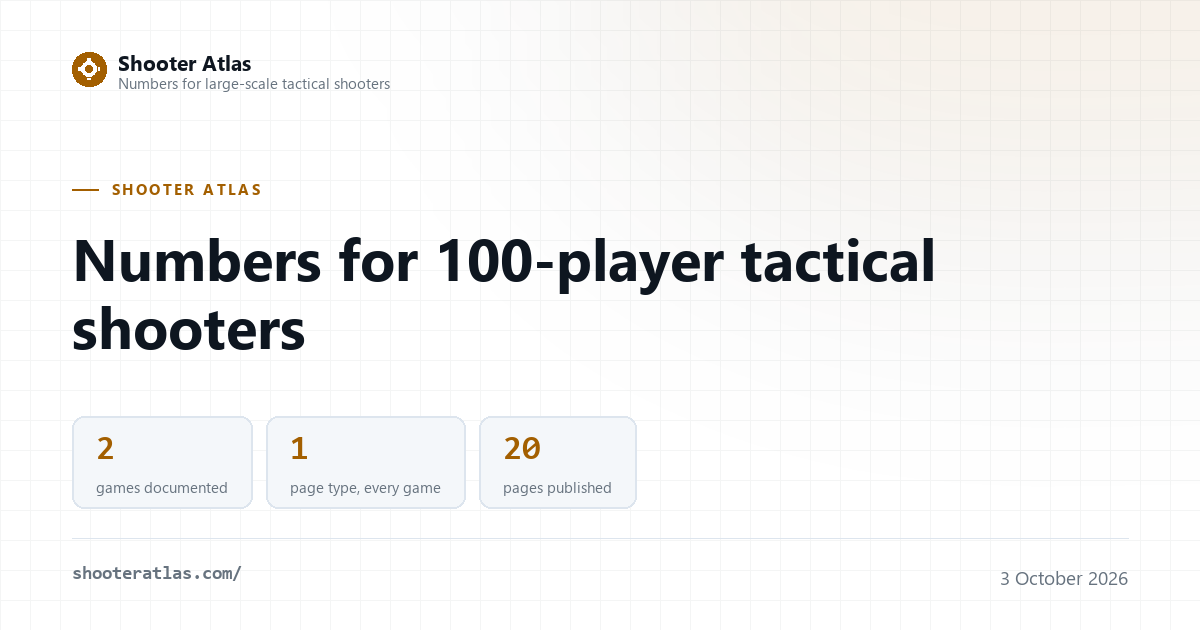
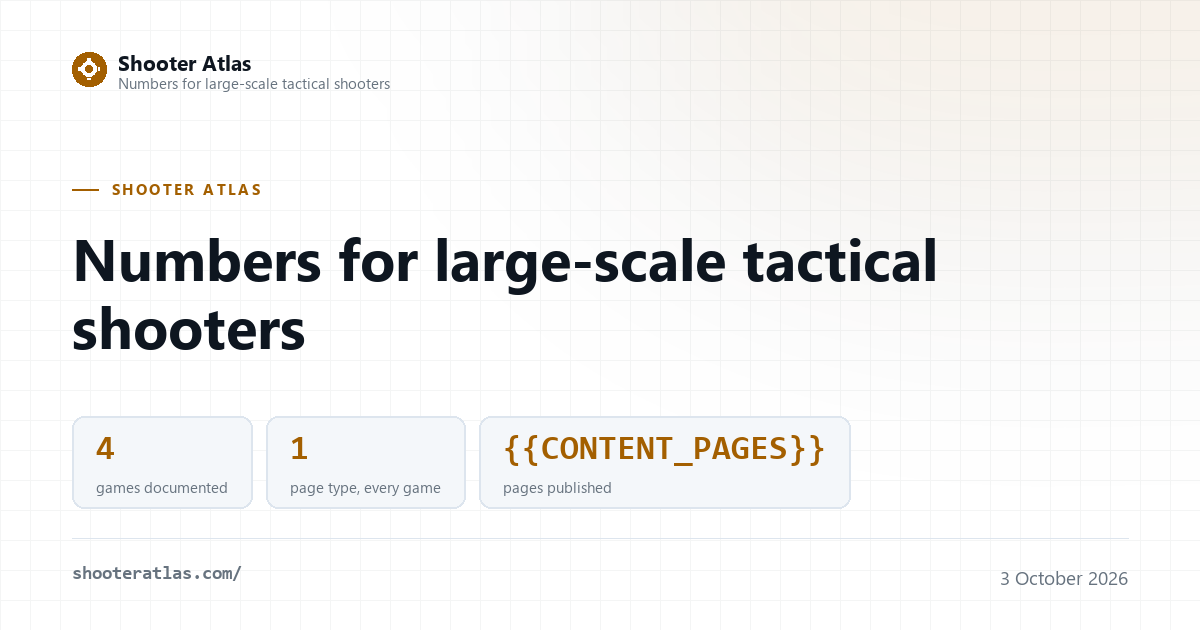
Four rulings on the home page, and Hell Let Loose: the fourth game
Step 10. The owner's four rulings first, then the last page in the queue.
They land together because the footer and the page table are edited once
for both.

Home page:
* at-a-glance: the second "page type" cell becomes the site's standing
  promise — "0 figures without a source and a read date" — instead of
  repeating the first cell, so the four cells read as four different things
* the card's headline is now the footer's tagline word for word, "Numbers
  for large-scale tactical shooters". The card had kept "100-player", which
  stopped being true of the whole site the day Foxhole joined it
* the card's three figures are read out of src/pages/index.mjs when the card
  is drawn, so they follow the page instead of being typed a second time,
  and the alt text no longer repeats figures that move
* the footer Pages list gains the two pages it was missing, Towers and
  Discord; every content page is now in it

/hell-let-loose-player-count (app 686810): 2,207 accounts on Steam at
09:49 UTC on 3 October 2026, from Valve's GetNumberOfCurrentPlayers, plus
our own five-read series from the same session. The page carries the two
all-time peaks that disagree by 21 (21,086 on SteamCharts, 21,107 on
steamplayercount.com), the studio's own "epic battles of 100 players" and
"Epic 50v50 FPS on PC & Console", and the one thing this game has that the
others in the set do not: it ships on consoles, so every published count
[…]

diff --git a/tools/make-page-images.py b/tools/make-page-images.py
@@ -18,6 +18,7 @@ from src/layout.mjs; if they change there, change them here too, because this
 is the only place they are written down a second time.
 """
 
+import re
 from pathlib import Path
 
 from PIL import Image, ImageDraw, ImageFilter, ImageFont
@@ -198,12 +199,32 @@ def build(name, eyebrow, headline, stats, path, date, theme):
     return f"{name}{suffix}.png"
 
 
+SRC_INDEX = Path(__file__).resolve().parent.parent / "src" / "pages" / "index.mjs"
+
+
+def at_a_glance():
+    """The home page's own at-a-glance cells, read from its source.
+
+    The card is meant to show the figures the page leads with, and three of the
+    four move whenever a page or a game is added. Reading them here keeps one
+    source of truth, so the card cannot go stale the way a typed number would.
+    Order in src/pages/index.mjs: games documented, page type, figures without a
+    source, pages published. The card takes the first two and the fourth.
+    """
+    html = SRC_INDEX.read_text(encoding="utf-8")
+    return re.findall(
+        r'<span class="stat-n">([^<]+)</span><span class="stat-k">([^<]+)</span>', html
+    )
+
+
+CELLS = at_a_glance()
+
 # One row per page. The figures here are the same ones the page leads with, so
 # a shared link and the page it opens agree.
 PAGES = [
     ("home", "Shooter Atlas",
-     "Numbers for 100-player tactical shooters",
-     [("2", "games documented"), ("1", "page type, every game"), ("20", "pages published")], "/",
+     "Numbers for large-scale tactical shooters",
+     [CELLS[0], CELLS[1], CELLS[3]], "/",
      "3 October 2026"),
     ("wardogs", "WARDOGS",
      "Scoring, prices and platform support",
@@ -269,6 +290,10 @@ PAGES = [
      "1,774 on Steam, 17,451 at the record",
      [("1,774", "accounts with it open"), ("17,451", "all-time peak"), ("10.2%", "of the record, calculated")],
      "/foxhole-player-count", "3 October 2026"),
+    ("hell-let-loose-player-count", "HELL LET LOOSE · Player count",
+     "2,207 on Steam, 21,086 at the record",
+     [("2,207", "accounts with it open"), ("21,086", "all-time peak"), ("10.5%", "of the record, calculated")],
+     "/hell-let-loose-player-count", "3 October 2026"),
 ]
 
 for row in PAGES:
